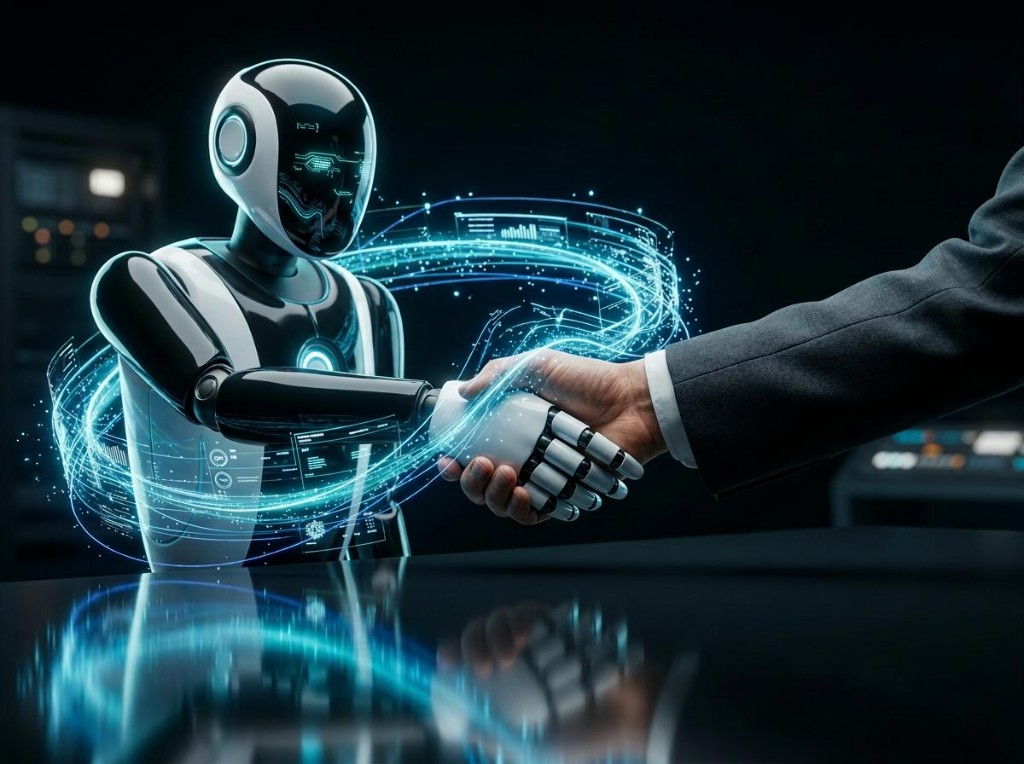
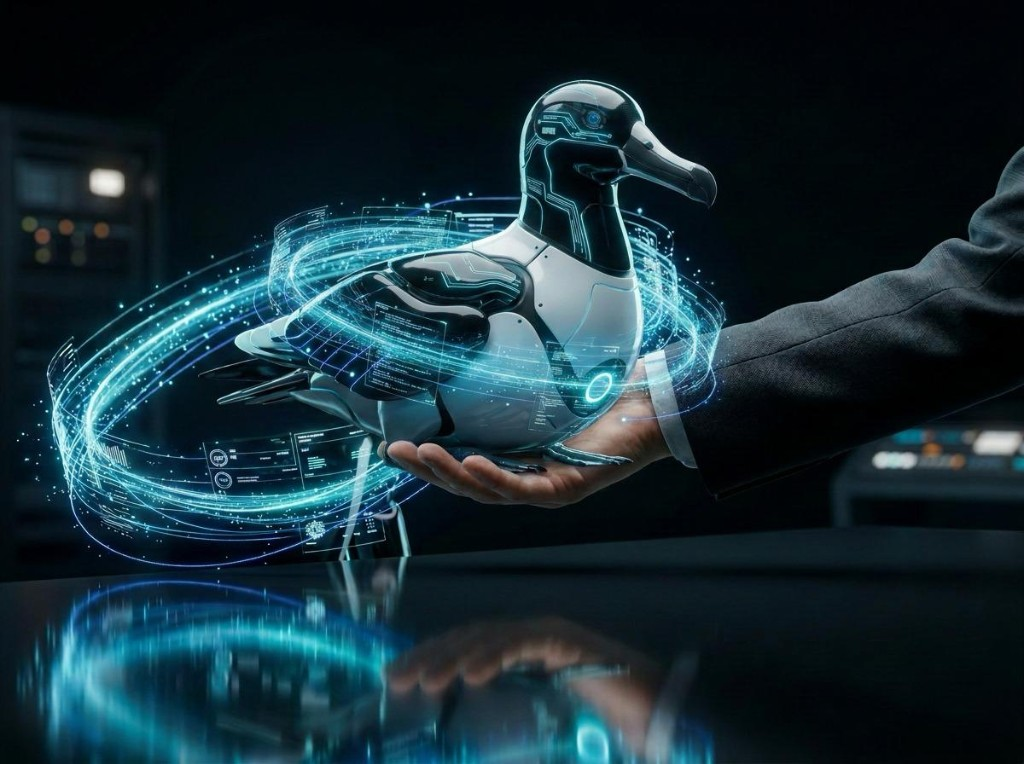
Add CODEMAP.md for project file indexing and update references in AGENTS.md; enhance AIServices and Rally service detail pages with new buttons and image updates

Changed region(s): [[0.0625, 0.0602, 0.7188, 1.0]]

diff --git a/component/banner/Banner.jsx b/component/banner/Banner.jsx
@@ -10,9 +10,10 @@ const BLUE_GLOW =
   "radial-gradient(ellipse 70% 65% at 72% 50%, rgba(40,120,220,0.22) 0%, rgba(20,60,140,0.08) 40%, transparent 70%)";
 
 const ROBOT_LAYOUT = {
-  artClassName: "lg:right-[12%] lg:w-[54%]",
-  textClassName: "lg:w-[55%]",
-  objectPosition: "object-[32%_50%] lg:object-right lg:object-bottom",
+  artClassName: "lg:right-[1%] lg:w-[50%]",
+  textClassName: "lg:w-[52%]",
+  objectPosition: "object-center",
+  imageClassName: "mx-auto max-w-[560px] lg:max-w-none",
   maskClassName: "banner-art-mask",
   edgeFades: true,
 };
@@ -21,6 +22,7 @@ const FILLED_LAYOUT = {
   artClassName: "lg:right-[3%] lg:w-[46%]",
   textClassName: "lg:w-[52%]",
   objectPosition: "object-center",
+  imageClassName: "",
   maskClassName: "",
   edgeFades: false,
 };
@@ -46,21 +48,21 @@ const banners = [
   },
   {
     src: "/images/banner-2-trozai-visual.png",
-    alt: "TrozAI – An AI Platform That Works within Your Enterprise Ecosystem",
-    width: 1536,
-    height: 1024,
+    alt: "troz.ai – An AI Platform That Works within Your Enterprise Ecosystem",
+    width: 1024,
+    height: 768,
     cta: "Request a Free Demo",
     glow: BLUE_GLOW,
     ...ROBOT_LAYOUT,
     title: (
       <>
-        <span className="text-white">Troz</span>
-        <span className="text-[#ff3f3a]">AI</span>
+        <span className="text-white">troz</span>
+        <span className="text-[#ff3f3a]">.ai</span>
         {" – An AI Platform That Works within Your "}
         <span className="text-[#ff3f3a]">Enterprise Ecosystem</span>
       </>
     ),
-    body: "TrozAI is an AI-powered enterprise platform that integrates seamlessly with your existing systems — from PMO and PPM tools to CRM, SAP, ITSM, DevOps and legacy applications.",
+    body: "troz.ai is an AI-powered enterprise platform that integrates seamlessly with your existing systems — from PMO and PPM tools to CRM, SAP, ITSM, DevOps and legacy applications.",
   },
   {
     src: "/images/banner-3-visual.png",
@@ -139,19 +141,27 @@ function BannerSlide({ banner, index }) {
       />
 
       <div
-        className={`relative z-0 order-2 h-[200px] w-full shrink-0 md:h-[240px] lg:absolute lg:inset-y-0 lg:order-none lg:h-auto lg:max-h-none ${banner.maskClassName} ${banner.artClassName}`}
+        className={`relative z-0 order-2 flex h-[220px] w-full shrink-0 items-center justify-center overflow-hidden md:h-[280px] lg:absolute lg:inset-y-0 lg:order-none lg:block lg:h-auto lg:max-h-none ${banner.maskClassName} ${banner.artClassName}`}
       >
         <img
-          src={`${banner.src}?v=2`}
+          src={`${banner.src}?v=3`}
           alt={banner.alt}
           width={banner.width}
           height={banner.height}
           decoding="async"
           fetchPriority={index === 0 ? "high" : "auto"}
-          className={`h-full w-full object-contain ${banner.objectPosition}`}
+          className={`h-full w-full object-contain ${banner.objectPosition} ${banner.imageClassName ?? ""}`}
         />
         {banner.edgeFades ? (
           <>
+            <div
+              aria-hidden
+              className="pointer-events-none absolute inset-y-0 left-0 w-[18%] max-lg:hidden"
+              style={{
+                background:
+                  "linear-gradient(to right, #000 0%, rgba(0,0,0,0.65) 40%, transparent 100%)",
+              }}
+            />
             <div
               aria-hidden
               className="pointer-events-none absolute inset-x-0 bottom-0 h-[22%]"
@@ -168,12 +178,28 @@ function BannerSlide({ banner, index }) {
                   "linear-gradient(to bottom, #000 0%, transparent 100%)",
               }}
             />
+            <div
+              aria-hidden
+              className="pointer-events-none absolute inset-y-0 left-0 w-[12%] lg:hidden"
+              style={{
+                background:
+                  "linear-gradient(to right, #000 0%, transparent 100%)",
+              }}
+            />
+            <div
+              aria-hidden
+              className="pointer-events-none absolute inset-y-0 right-0 w-[12%] lg:hidden"
+              style={{
+                background:
+                  "linear-gradient(to left, #000 0%, transparent 100%)",
+              }}
+            />
           </>
         ) : null}
       </div>
 
       <div
-        className={`contents lg:relative lg:z-10 lg:flex lg:min-w-0 lg:flex-col lg:justify-center lg:py-4 lg:pl-16 lg:pr-6 lg:text-left ${banner.textClassName}`}
+        className={`contents lg:relative lg:z-10 lg:flex lg:min-w-0 lg:flex-col lg:justify-center lg:py-4 lg:pl-20 lg:pr-6 lg:text-left ${banner.textClassName}`}
       >
         <div className="relative z-10 order-1 w-full min-w-0 px-6 pt-6 text-left max-lg:min-h-[11.5rem] lg:order-none lg:min-h-0 lg:p-0">
           <h1

diff --git a/section/AIServices/AIServicesPage.jsx b/section/AIServices/AIServicesPage.jsx
@@ -5,7 +5,7 @@ import BookACallButton from "@/component/BookACall/BookACallButton";
 import { aiServicesPageData } from "./aiServicesPageData";
 
 const SLIDE_INTERVAL = 6000;
-const HERO_IMAGE = "/images/ai-services-hero.png?v=2";
+const HERO_IMAGE = "/images/ai-services-hero.png?v=3";
 
 function RichHtml({ html, className = "", as: Tag = "span" }) {
   const safe = html
@@ -177,27 +177,29 @@ export default function AIServicesPage() {
           </div>
 
           {/* Banner / image */}
-          <div className="relative w-full overflow-hidden bg-black">
+          <div className="relative mx-auto flex w-full max-w-[560px] items-center justify-center overflow-hidden bg-black md:mx-0 md:max-w-none">
             <img
               src={HERO_IMAGE}
-              alt="AI partnership for enterprise — human and intelligent systems working together"
-              className="relative z-10 w-full object-contain mix-blend-lighten [mask-image:radial-gradient(ellipse_at_center,black_42%,rgba(0,0,0,0.85)_68%,transparent_100%)] [-webkit-mask-image:radial-gradient(ellipse_at_center,black_42%,rgba(0,0,0,0.85)_68%,transparent_100%)] [mask-size:100%_100%] [-webkit-mask-size:100%_100%] [mask-repeat:no-repeat] [-webkit-mask-repeat:no-repeat]"
+              alt="troz.ai — AI partnership for enterprise"
+              width={1024}
+              height={764}
+              className="relative z-10 mx-auto h-auto w-full max-w-full object-contain object-center mix-blend-lighten [mask-image:radial-gradient(ellipse_at_center,black_55%,rgba(0,0,0,0.9)_78%,transparent_100%)] [-webkit-mask-image:radial-gradient(ellipse_at_center,black_55%,rgba(0,0,0,0.9)_78%,transparent_100%)] [mask-size:100%_100%] [-webkit-mask-size:100%_100%] [mask-repeat:no-repeat] [-webkit-mask-repeat:no-repeat]"
             />
             <div
               aria-hidden
-              className="pointer-events-none absolute inset-y-0 left-0 z-20 w-[28%] bg-gradient-to-r from-black via-black/70 to-transparent"
+              className="pointer-events-none absolute inset-y-0 left-0 z-20 w-[18%] bg-gradient-to-r from-black via-black/65 to-transparent md:w-[22%]"
             />
             <div
               aria-hidden
-              className="pointer-events-none absolute inset-y-0 right-0 z-20 w-[28%] bg-gradient-to-l from-black via-black/70 to-transparent"
+              className="pointer-events-none absolute inset-y-0 right-0 z-20 w-[18%] bg-gradient-to-l from-black via-black/65 to-transparent md:w-[22%]"
             />
             <div
               aria-hidden
-              className="pointer-events-none absolute inset-x-0 top-0 z-20 h-14 bg-gradient-to-b from-black via-black/70 to-transparent md:h-20"
+              className="pointer-events-none absolute inset-x-0 top-0 z-20 h-12 bg-gradient-to-b from-black via-black/65 to-transparent md:h-16"
             />
             <div
               aria-hidden
-              className="pointer-events-none absolute inset-x-0 bottom-0 z-20 h-16 bg-gradient-to-t from-black via-black/75 to-transparent md:h-24"
+              className="pointer-events-none absolute inset-x-0 bottom-0 z-20 h-14 bg-gradient-to-t from-black via-black/70 to-transparent md:h-20"
             />
           </div>
 

diff --git a/section/AIServices/aiServicesPageData.js b/section/AIServices/aiServicesPageData.js
@@ -3,9 +3,9 @@ export const aiServicesPageData = {
     {
       eyebrow: "AI CONCIERGE — BUILT FOR ENTERPRISE PPM",
       titleHtml:
-        'Troz<span class="ai-accent">AI</span> : An AI solution that lives inside your <em>project office.</em>',
+        'troz<span class="ai-accent">.ai</span> : An AI solution that lives inside your <em>project office.</em>',
       subtitle:
-        "TrozAI understands your organisation — its standards, its history, its way of working — and acts on that understanding inside your project management application. Every action stays reviewable. Every step keeps a human in the loop.",
+        "troz.ai understands your organisation — its standards, its history, its way of working — and acts on that understanding inside your project management application. Every action stays reviewable. Every step keeps a human in the loop.",
       cta: "Request a free demo",
       href: "/contact-us",
     },
@@ -13,7 +13,7 @@ export const aiServicesPageData = {
       eyebrow: "CUSTOM AI BUILDS",
       titleHtml: "Bespoke AI <em>build, from Ground Up.</em>",
       subtitle:
-        "If your organisation needs its own TrozAI, not ours, we build that too — on RAG, MCP and agentic architectures, grounded in your own data and your own systems.",
+        "If your organisation needs its own troz.ai, not ours, we build that too — on RAG, MCP and agentic architectures, grounded in your own data and your own systems.",
       cta: "Get Free Consultation",
       href: "/contact-us",
     },

diff --git a/section/ConnectAll/ConnectAllServiceDetailPage.jsx b/section/ConnectAll/ConnectAllServiceDetailPage.jsx
@@ -1,6 +1,8 @@
 "use client";
 
+import Link from "next/link";
 import { Check } from "lucide-react";
+import BookACallButton from "@/component/BookACall/BookACallButton";
 
 function SectionBlock({ section }) {
   const hasBullets = section.bullets?.length > 0;
@@ -91,6 +93,19 @@ export default function ConnectAllServiceDetailPage({ page }) {
           {page.sections.map((section, index) => (
             <SectionBlock key={index} section={section} />
           ))}
+
+          <div className="flex flex-col gap-4 pt-4 sm:flex-row sm:items-center">
+            <BookACallButton className="inline-flex items-center justify-center rounded-lg bg-[#ff403a] px-7 py-3 text-base font-semibold text-white transition-colors hover:bg-[#cc2f2a] sm:text-lg">
+              Request Service
+            </BookACallButton>
+
+            <Link
+              href="/connectall/services"
+              className="inline-flex items-center justify-center rounded-lg border border-white/30 px-7 py-3 text-base font-semibold text-white transition-colors hover:border-[#ff403a] hover:text-[#ff403a] sm:text-lg"
+            >
+              View All ConnectALL Services
+            </Link>
+          </div>
         </div>
       </section>
     </div>

diff --git a/section/Rally/RallyServiceDetailPage.jsx b/section/Rally/RallyServiceDetailPage.jsx
@@ -1,6 +1,8 @@
 "use client";
 
+import Link from "next/link";
 import { Check } from "lucide-react";
+import BookACallButton from "@/component/BookACall/BookACallButton";
 
 function SectionBlock({ section }) {
   const hasBullets = section.bullets?.length > 0;
@@ -85,6 +87,19 @@ export default function RallyServiceDetailPage({ page }) {
           {page.sections.map((section, index) => (
             <SectionBlock key={index} section={section} />
           ))}
+
+          <div className="flex flex-col gap-4 pt-4 sm:flex-row sm:items-center">
+            <BookACallButton className="inline-flex items-center justify-center rounded-lg bg-[#ff403a] px-7 py-3 text-base font-semibold text-white transition-colors hover:bg-[#cc2f2a] sm:text-lg">
+              Request Service
+            </BookACallButton>
+
+            <Link
+              href="/rally/services"
+              className="inline-flex items-center justify-center rounded-lg border border-white/30 px-7 py-3 text-base font-semibold text-white transition-colors hover:border-[#ff403a] hover:text-[#ff403a] sm:text-lg"
+            >
+              View All Rally Services
+            </Link>
+          </div>
         </div>
       </section>
     </div>

diff --git a/CODEMAP.md b/CODEMAP.md
@@ -1,0 +1,97 @@
+# CODEMAP — Albatroz site (read this first)
+
+Next.js app. Routes in `app/`, UI sections in `section/`, shared UI in `component/`.  
+**Rule:** before exploring the repo, use this file. After adding/moving/renaming files or routes, update this map in the same change.
+
+## Layout
+| Path | Role |
+|------|------|
+| `app/` | Routes + `layout.tsx` + `globals.css` |
+| `section/` | Page section components + page/service **data** |
+| `component/` | Shared UI (nav, footer, forms, book-a-call…) |
+| `public/images/` | Static assets (product heroes, service covers…) |
+| `data/blogs/` | Blog JSON (`index.json` + `posts/`) |
+| `lib/` | Helpers (`blog.js`, `sendEmail.js`) |
+| `middleware.js` | Next middleware |
+
+## Routes → entry → content/data
+| URL | Route file | Main UI / data |
+|-----|------------|----------------|
+| `/` | `app/page.tsx` | `section/Home/*` |
+| `/about` | `app/about/page.js` | — |
+| `/ourteam` | `app/ourteam/page.js` | — |
+| `/career` | `app/career/page.js` | `section/Career/*` |
+| `/contact-us` | `app/contact-us/page.js` | — |
+| `/privacy-policy` | `app/privacy-policy/page.js` | — |
+| `/blog` (+ slug/category) | `app/blog/**` | `section/Blog/*`, `lib/blog.js`, `data/blogs/` |
+| `/project` | `app/project/page.js` | — |
+| `/project-management` | `app/project-management/page.jsx` | `section/ProjectManagement/*` |
+| `/enterprise-it-automation` | `app/enterprise-it-automation/page.js` | — |
+| `/ai-services-for-enterprise` | `app/ai-services-for-enterprise/page.jsx` | `section/AIServices/*`, `ai-services.css` |
+| `/clarity` | `app/clarity/page.js` | `section/Clarity/*` |
+| `/clarity/services` | `app/clarity/services/page.jsx` | `clarityServicesData.js` |
+| `/clarity/services/[slug]` | `app/clarity/services/[slug]/page.jsx` | `ClarityServiceDetailPage.jsx` + `clarityServicePagesData.js` |
+| `/clarity/plugins/[slug]` | `app/clarity/plugins/[slug]/page.jsx` | `PrebuiltPluginPage.jsx` + `prebuiltPluginsData.js` |
+| `/rally` | `app/rally/page.jsx` | `RallyPage.jsx` + `rallyPageData.js`, `rally.css` |
+| `/rally/services` | `app/rally/services/page.jsx` | `rallyServicesData.js` |
+| `/rally/services/[slug]` | `app/rally/services/[slug]/page.jsx` | `RallyServiceDetailPage.jsx` + `rallyServicePagesData.js` |
+| `/connectall` | `app/connectall/page.jsx` | `section/ConnectAll/*` |
+| `/connectall/services` | `app/connectall/services/page.jsx` | `connectAllServicesData.js` |
+| `/connectall/services/[slug]` | `app/connectall/services/[slug]/page.jsx` | `ConnectAllServiceDetailPage.jsx` + `connectAllServicePagesData.js` |
+| `/automic-automation` | `app/automic-automation/page.jsx` | `section/Automation/*` (Automic) |
+| `/automic-automation/services` (+ `[slug]`) | `app/automic-automation/services/**` | `AutomicServiceDetailPage.jsx` + `automicServicePagesData.js` |
+| `/stonebranch` | `app/stonebranch/page.jsx` | `section/Automation/*` (Stonebranch) |
+| `/stonebranch/services` (+ `[slug]`) | `app/stonebranch/services/**` | `StonebranchServiceDetailPage.jsx` + `stonebranchServicePagesData.js` |
+| API blog | `app/api/blog/route.js` | — |
+
+## `section/` by product
+| Folder | Key files |
+|--------|-----------|
+| `Home/` | Landing blocks: WhatWeDo, HowWeWork, PlatformShowcase, Form, Faq, Blog, testimonials… |
+| `Clarity/` | Cards, detail page, plugins; `clarityServicesData`, `clarityServicePagesData`, FAQ/stories/plugins data |
+| `Rally/` | Product page + service cards/detail; `rallyPageData`, `rallyServicesData`, `rallyServicePagesData` |
+| `ConnectAll/` | Product + services; `connectAllData`, `connectAllServicesData`, `connectAllServicePagesData` |
+| `Automation/` | Shared Automic + Stonebranch UI; `*ServicesData`, `*ServicePagesData`, FAQ/functionalities/stories |
+| `AIServices/` | `AIServicesPage.jsx` + `aiServicesPageData.js` |
+| `Blog/` | List/card/content/filter |
+| `Career/` | Testimonials + data |
+| `ProjectManagement/` | PPM blocks + `ppmBenefitsData.js` |
+
+## Shared `component/`
+| Path | Role |
+|------|------|
+| `Nav/Nav.jsx` | Site nav |
+| `Nav/SolutionsMegaMenu.jsx` + `solutionsMenuData.js` | Solutions mega-menu links |
+| `Footer/Footer.jsx` | Footer |
+| `BookACall/*` | Request-call modal/button/context |
+| `FloatingContact/*` | Floating contact actions |
+| `Form/*` | Country select, terms checkbox |
+| `banner/Banner.jsx`, `common/Banner.jsx` | Banners |
+| `Faq/`, `Testimonials/`, `SuccessStories/`, `Media/` | Reusable sections/media |
+
+## Images (service covers)
+| Folder under `public/images/` | Used by |
+|-------------------------------|---------|
+| `clarity-services/` | Clarity service pages |
+| `rally-services/` | Rally service pages |
+| `connectall-services/` | ConnectALL service pages |
+| `automic-services/`, `automic-functionalities/`, `automic/` | Automic |
+| `stonebranch/` | Stonebranch |
+| `plugins/` | Clarity plugins |
+| `blog/`, `career/` | Blog / career |
+
+## Edit cheat-sheet
+| Change | Touch |
+|--------|-------|
+| Nav / mega-menu labels & links | `component/Nav/solutionsMenuData.js` (+ `SolutionsMegaMenu.jsx` if UI) |
+| Clarity service list / slugs | `clarityServicesData.js` + `clarityServicePagesData.js` + routes already dynamic |
+| Rally service page copy | `rallyServicePagesData.js` |
+| ConnectALL service page copy | `connectAllServicePagesData.js` |
+| Automic / Stonebranch service copy | `automicServicePagesData.js` / `stonebranchServicePagesData.js` |
+| Blog post | `data/blogs/posts/*.json` + `data/blogs/index.json` |
+| Global styles | `app/globals.css` |
+
+## Conventions
+- Service detail pages: thin `app/.../[slug]/page.jsx` → `*ServiceDetailPage.jsx` + `*ServicePagesData.js`
+- Listing cards: `*ServicesData.js` + `*ServiceCard.jsx` / grid
+- Brand accent: `#ff403a` on black

diff --git a/AGENTS.md b/AGENTS.md
@@ -2,4 +2,6 @@
 # This is NOT the Next.js you know
 
 This version has breaking changes — APIs, conventions, and file structure may all differ from your training data. Read the relevant guide in `node_modules/next/dist/docs/` before writing any code. Heed deprecation notices.
+
+Project file map (read first, keep updated): `CODEMAP.md`
 <!-- END:nextjs-agent-rules -->
